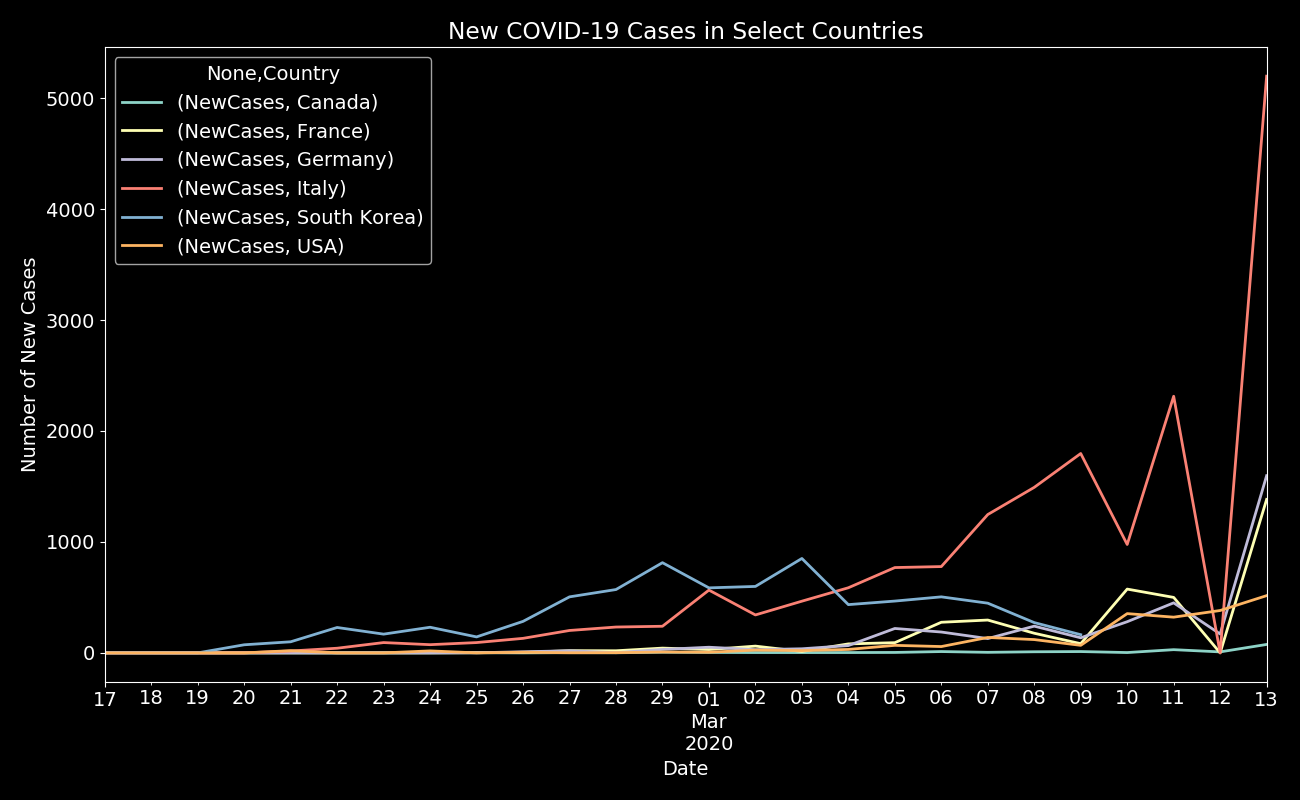
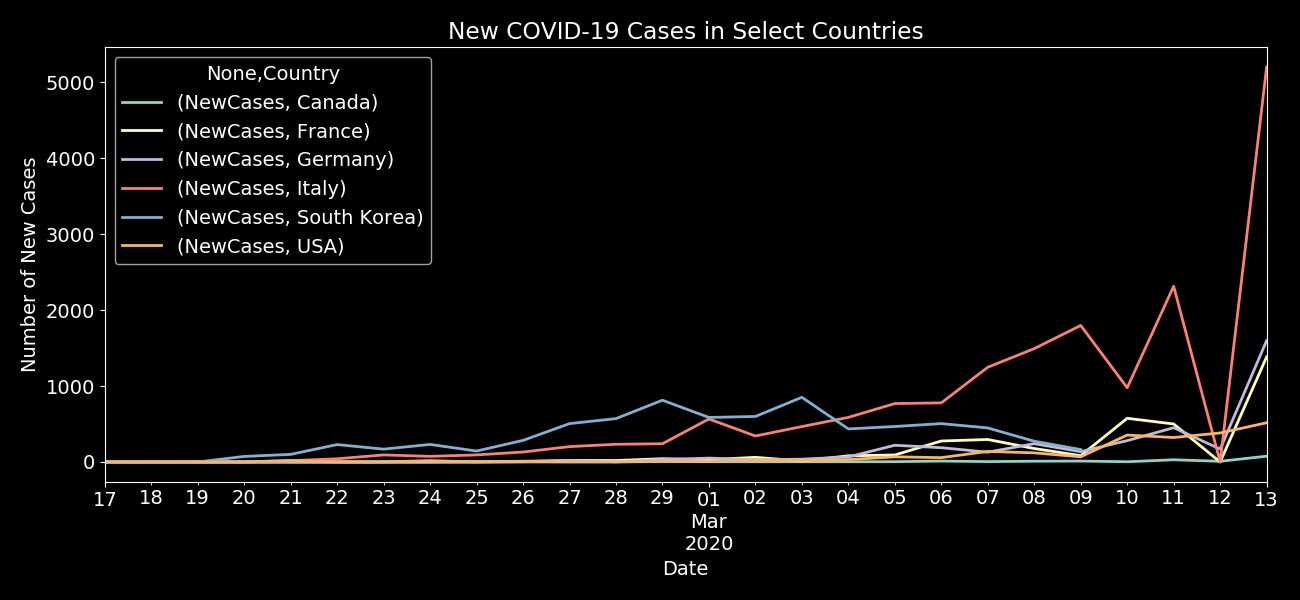
Change Countries New Cases to be consistent size

diff --git a/make_graph.py b/make_graph.py
@@ -327,7 +327,7 @@ countries_new_cases_csv = os.path.join(
 countries_new_cases.to_csv(countries_new_cases_csv)
 
 countries_new_cases = countries_new_cases[['NewCases']]
-countries_new_cases_fig, countries_new_cases_ax = plt.subplots(figsize=(13, 8))
+countries_new_cases_fig, countries_new_cases_ax = plt.subplots(figsize=(13, 6))
 countries_new_cases.unstack().plot(
     ax=countries_new_cases_ax,
     title='New COVID-19 Cases in Select Countries',
